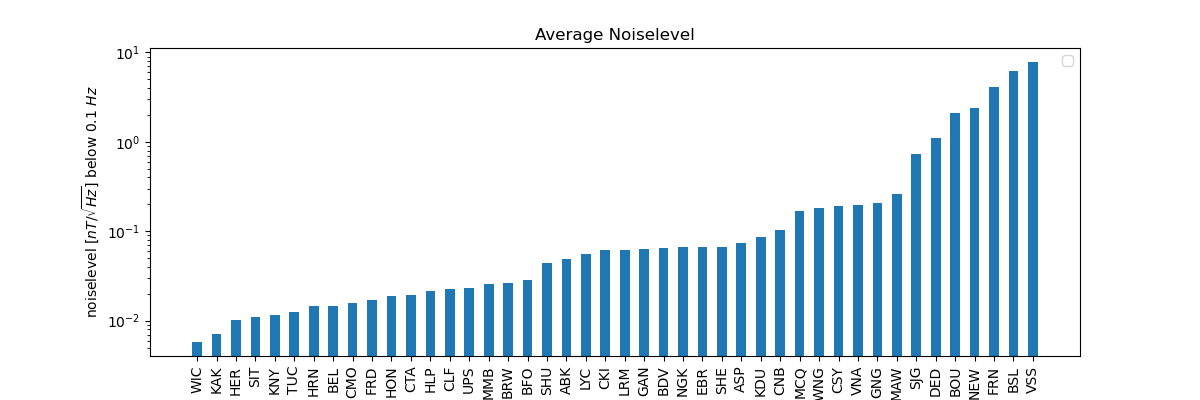
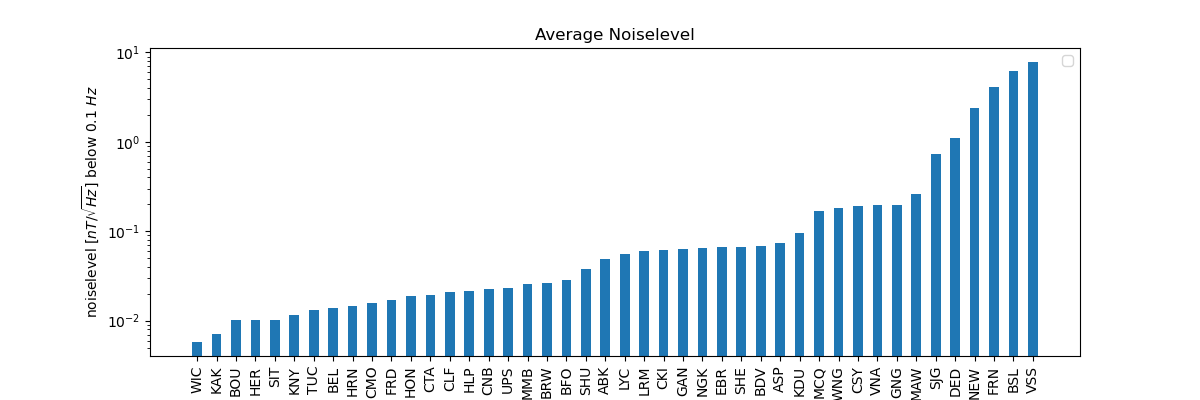
corrected an error in scan with step order

diff --git a/imbot/core/steps.py b/imbot/core/steps.py
@@ -268,11 +268,15 @@ class botstatus(object):
                 contentname = "step{}date".format(step)
                 if not imolayer.get(contentname, ''):
                     imolayer[contentname] = datetime.now().strftime("%Y-%m-%d")
-                    imolayer['maximum_minute_step'] = "step{}".format(step)
-                    imolayer['modification'] = "added to step{}".format(step)
-                    # IMPORTANT: get the filetyp of the highest available step so that correct mindata is loaded
-                    # Min data in step3 is usually zipped (unlike step1 or step2)
-                    imolayer['maximum_step_filetype'] = typ
+                    cms = imolayer.get('maximum_minute_step','step0')[-1]
+                    if not int(cms) > int(step):
+                        # check whether a higher step is already existing
+                        # important as step3 is analyzed before step2
+                        imolayer['maximum_minute_step'] = "step{}".format(step)
+                        # IMPORTANT: get the filetyp of the highest available step so that correct mindata is loaded
+                        # Min data in step3 is usually zipped (unlike step1 or step2)
+                        imolayer['maximum_step_filetype'] = typ
+                        imolayer['modification'] = "added to step{}".format(step)
                 if debug:
                     print("Found files in step{}:{}".format(step, files))
                 if step == 2:
@@ -921,7 +925,7 @@ class TestImbotStep(unittest.TestCase):
         imostatus = imostatus.set_modification(set='', year=2021, resolution='minute', obscode='KOU')
 
         # now add meta_IMO.txt, remove blv file and modify README
-        shutil.copy(os.path.join(basepath,'examples','meta_OBSCODE.txt'), "/tmp/imbottest/step1/Mag2021/KOU/meta_KOU.txt")
+        shutil.copy(os.path.join(basepath,'imbot','templates','meta_OBSCODE.txt'), "/tmp/imbottest/step1/Mag2021/KOU/meta_KOU.txt")
         from pathlib import Path
         for p in Path("/tmp/imbottest/step1/Mag2021/KOU").glob("*.blv"):
             p.unlink()

diff --git a/imbot/version.py b/imbot/version.py
@@ -1,1 +1,1 @@
-__version__ = '2.0b1'
+__version__ = '2.0b2'

diff --git a/README.md b/README.md
@@ -721,7 +721,7 @@ Scheduled jobs in the following order:
    - TODO step3 minute
    - TODO step2 second requires an rsync process as new data is uploaded and referee reports are downloaded
    - TODO monitor these jobs
-2. scan.py is called to update local memory basaed on download folders
+2. scan.py is called to update local memory based on download folders
    - creates a local memory file with all step and analysis information for all data sets
    - TODO require a backup of the memory (weekly)
    - TODO monitor
